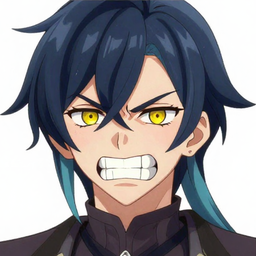
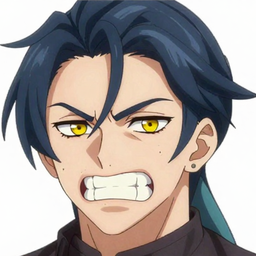
the men re-cut: four-man frame, kaeya and flins nine faces v2

diff --git a/manifest.md b/manifest.md
@@ -283,3 +283,8 @@
 - box-01-odette-zhongli.png — the velvet box: her gloved hand on his sleeve, her eyes on him, his on the stage. Sheet 3/3.
 - seed-05-envelope.png — the Deck's SEED teaser: a cream envelope, black wax, a lighthouse seal, one mora coin, the ledger's last line blank.
 - pap-12-corridor-two-women.png — Keqing and Clorinde walking away in robes, the pistol loose at her side, the first time Clorinde looked. Sheet 3/3.
+
+## D22 — THE MEN, RE-CUT (Karido: "no long flowy hair on the men; retain their faces"; "Flins turned blue")
+- four-men-01.png — Zhongli, Kaeya, Wriothesley, Tartaglia in the Opera foyer (Comfy, seed 170601). THE STANDARD for the four: Zhongli and Tartaglia unchanged; Kaeya short-cut, both eyes, face kept; Wriothesley mature, stubbled, weathered. Sheet 3/3 ×4.
+- faces/kaeya-sheet9-v2.png → faces/kaeya-{nine}.png (seed 170602) — the short cut; supersedes the long-haired nine of @1c6030ea.
+- faces/flins-sheet9-v2.png → faces/flins-{nine}.png (seed 170603) — pale ivory, built, short cut; supersedes @6ee9bc4. The ninth panel keeps the flush.
